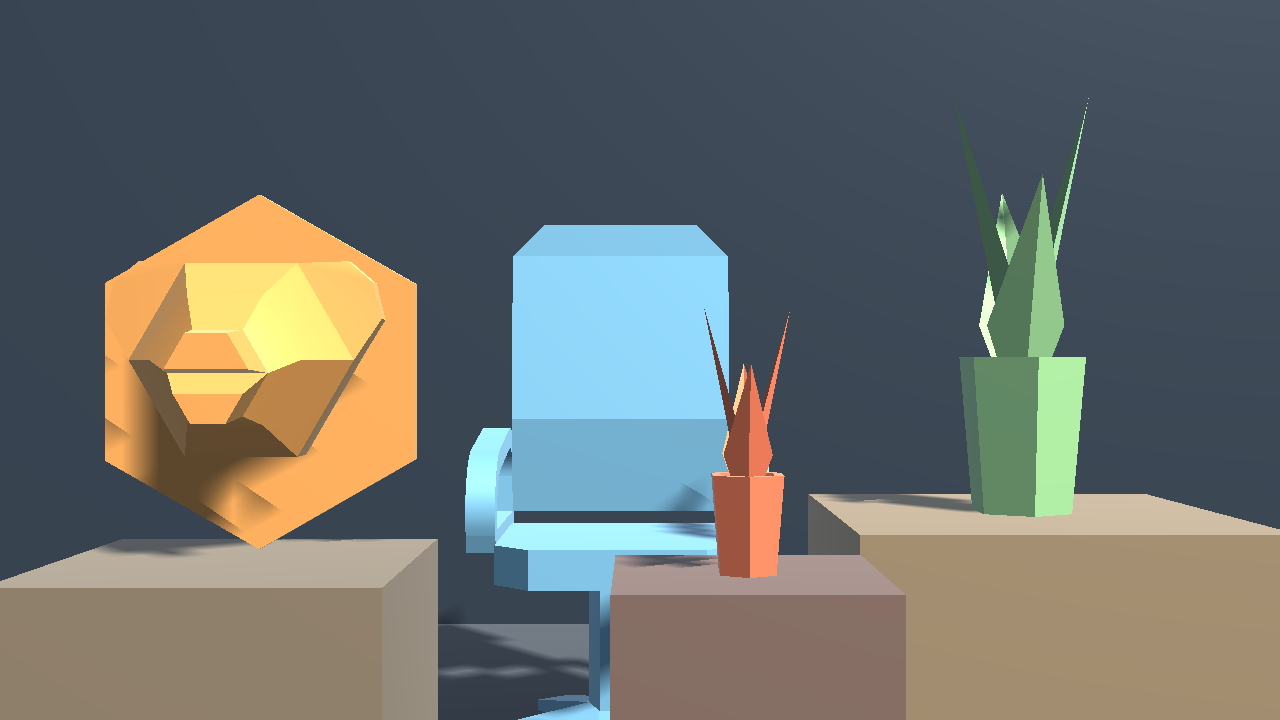
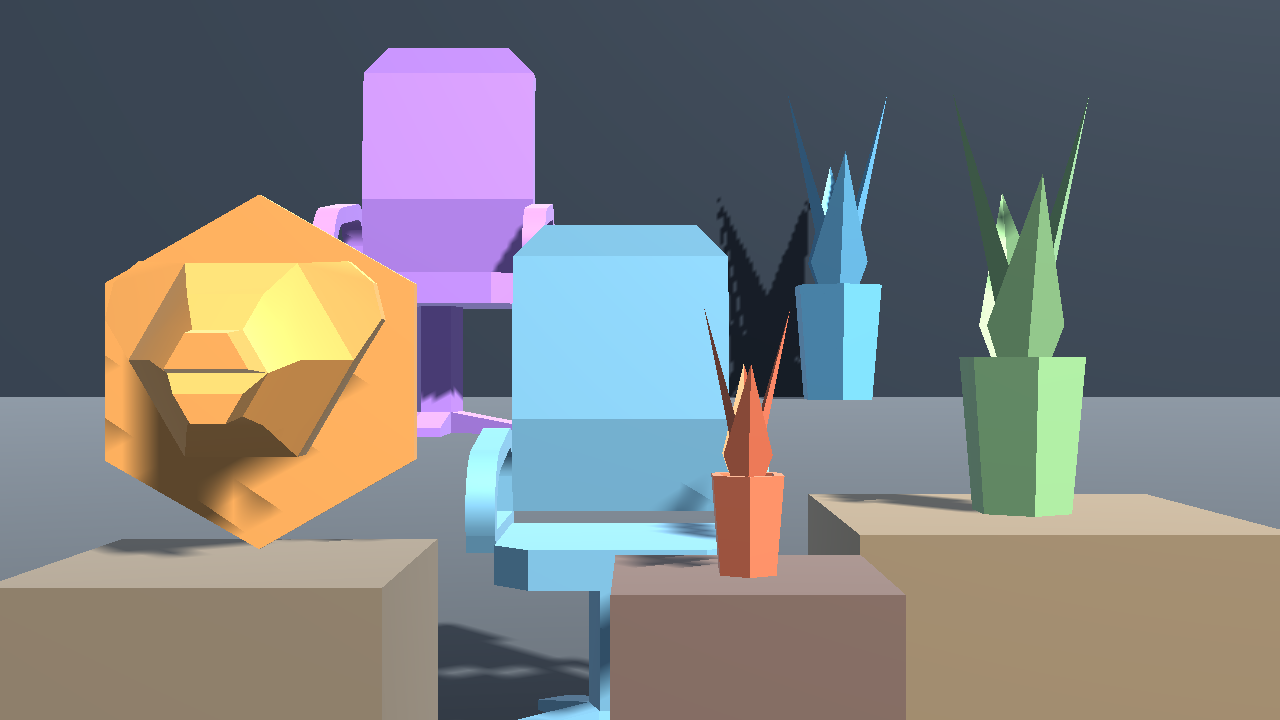
Add distant demo models at three and six meters

diff --git a/Demo/Assets/Scripts/DemoBootstrap.cs b/Demo/Assets/Scripts/DemoBootstrap.cs
@@ -84,6 +84,10 @@ namespace HeadTracked.Demo
                 rearPlinth, -.08f, new Color(0.55f, 0.76f, 0.53f));
             AddSceneModel("Red plant", "Models/pottedPlant", "Plant, in front of screen", .04f, .10f, -.06f,
                 protrudingPlinth, -.08f, new Color(0.90f, 0.46f, 0.33f));
+            AddSceneModel("Distant chair", "Models/chairDesk", "Chair, distant", -.50f, 1.0f, 3.0f,
+                null, -.18f, new Color(0.68f, 0.50f, 0.91f));
+            AddSceneModel("Distant plant", "Models/pottedPlant", "Plant, distant", .90f, 1.4f, 6.0f,
+                null, -.18f, new Color(0.40f, 0.72f, 0.90f));
             UpdateRoomGeometry();
 
             var sun = new GameObject("Soft key light").AddComponent<Light>();
@@ -169,9 +173,9 @@ namespace HeadTracked.Demo
 
         public void UseDepthPreset(bool deep)
         {
-            if (sceneModels.Count != 4) return;
+            if (sceneModels.Count < 4) return;
             float[] depths = deep ? new[] { -.04f, .29f, .42f, -.18f } : new[] { -.025f, .10f, .16f, -.06f };
-            for (int i = 0; i < sceneModels.Count; i++) sceneModels[i].depthCm = (depths[i] * 100f).ToString("F1");
+            for (int i = 0; i < depths.Length; i++) sceneModels[i].depthCm = (depths[i] * 100f).ToString("F1");
             ApplyModelLayout();
         }
 
@@ -182,9 +186,9 @@ namespace HeadTracked.Demo
             {
                 var model = sceneModels[i];
                 if (!float.TryParse(model.heightCm, out float height) || !float.TryParse(model.depthCm, out float depth) ||
-                    !IsFinite(height) || !IsFinite(depth) || height < 2f || height > 200f || depth < -20f || depth > 200f)
+                    !IsFinite(height) || !IsFinite(depth) || height < 2f || height > 200f || depth < -20f || depth > 1500f)
                 {
-                    notice = "Use model height 2-200 cm and centre depth -20 to +200 cm.";
+                    notice = "Use model height 2-200 cm and centre depth -20 to +1500 cm.";
                     return false;
                 }
                 values[i] = new ModelSizeAndDepth { height = height * .01f, depth = depth * .01f };
@@ -224,13 +228,18 @@ namespace HeadTracked.Demo
                 }
             }
             float front = nearest - .10f, back = farthest + .12f;
+            float roomWidth = Mathf.Max(1.55f, back * 2f);
+            float wallHeight = Mathf.Max(.9f, back * .7f);
             var wallPosition = backWall.position;
             wallPosition.z = back + .01f;
+            wallPosition.y = -.18f + wallHeight * .5f;
             backWall.position = wallPosition;
+            backWall.localScale = new Vector3(roomWidth, wallHeight, .02f);
             var floorPosition = roomFloor.position;
             floorPosition.z = (front + back) * .5f;
             roomFloor.position = floorPosition;
             var floorScale = roomFloor.localScale;
+            floorScale.x = roomWidth;
             floorScale.z = back - front;
             roomFloor.localScale = floorScale;
         }
@@ -242,8 +251,9 @@ namespace HeadTracked.Demo
             try
             {
                 var saved = JsonUtility.FromJson<ModelLayoutFile>(File.ReadAllText(path));
-                if (saved?.models == null || saved.models.Length != sceneModels.Count) return;
-                for (int i = 0; i < sceneModels.Count; i++)
+                if (saved?.models == null || saved.models.Length > sceneModels.Count) return;
+                // Keep an older four-model layout while adding the new distant models at their defaults.
+                for (int i = 0; i < saved.models.Length; i++)
                 {
                     sceneModels[i].heightCm = (saved.models[i].height * 100f).ToString("F1");
                     sceneModels[i].depthCm = (saved.models[i].depth * 100f).ToString("F1");
@@ -477,7 +487,7 @@ namespace HeadTracked.Demo
                         source.GetType().GetMethod("SelectWebcam")?.Invoke(source, new object[] { device.name });
             }
             GUILayout.Label(notice);
-            if (sceneModels.Count == 4)
+            if (sceneModels.Count >= 4)
                 GUILayout.Label($"The red plant centre is {Mathf.Abs(sceneModels[3].depth) * 100f:F1} cm {(sceneModels[3].depth < 0f ? "in front of" : "behind")} the screen.");
             GUILayout.Label("Models need no tracking scripts; the monitor edge still clips them.");
             GUILayout.EndScrollView();

diff --git a/Demo/Assets/Tests/PlayMode/SceneSmokeTests.cs b/Demo/Assets/Tests/PlayMode/SceneSmokeTests.cs
@@ -28,6 +28,10 @@ namespace HeadTracked.Demo.Tests
             Assert.That(Quaternion.Angle(model.rotation, rotation), Is.LessThan(.001f));
             demo.UseDepthPreset(false);
             Assert.That(renderer.bounds.center.z, Is.EqualTo(-.06f).Within(.001f));
+            Assert.That(ModelBounds(GameObject.Find("Chair, distant")).center.z,
+                Is.EqualTo(3f).Within(.001f));
+            Assert.That(ModelBounds(GameObject.Find("Plant, distant")).center.z,
+                Is.EqualTo(6f).Within(.001f));
         }
 
         [UnityTest]
@@ -62,6 +66,16 @@ namespace HeadTracked.Demo.Tests
             Assert.That(protrudingViewport.z, Is.GreaterThan(0f));
             Assert.That(protrudingViewport.x, Is.InRange(0f, 1f));
             Assert.That(protrudingViewport.y, Is.InRange(0f, 1f));
+            foreach (string name in new[] { "Chair, distant", "Plant, distant" })
+            {
+                var distant = GameObject.Find(name);
+                Assert.That(distant, Is.Not.Null);
+                Assert.That(distant.GetComponentInChildren<MeshFilter>(), Is.Not.Null);
+                Vector3 viewport = Camera.main.WorldToViewportPoint(ModelBounds(distant).center);
+                Assert.That(viewport.x, Is.InRange(0f, 1f));
+                Assert.That(viewport.y, Is.InRange(0f, 1f));
+                Assert.That(viewport.z, Is.InRange(Camera.main.nearClipPlane, Camera.main.farClipPlane));
+            }
 
             string screenshotPath = System.Environment.GetEnvironmentVariable("HEADTRACK_CAPTURE");
             if (!string.IsNullOrEmpty(screenshotPath))
@@ -81,6 +95,14 @@ namespace HeadTracked.Demo.Tests
                 Object.Destroy(image);
                 Object.Destroy(target);
             }
+        }
+
+        private static Bounds ModelBounds(GameObject model)
+        {
+            var renderers = model.GetComponentsInChildren<Renderer>();
+            var bounds = renderers[0].bounds;
+            foreach (var renderer in renderers) bounds.Encapsulate(renderer.bounds);
+            return bounds;
         }
     }
 }

diff --git a/README.md b/README.md
@@ -4,7 +4,7 @@
 
 Head Tracked Display makes an ordinary monitor behave like a window into a fixed 3D scene. A webcam estimates one viewer's eye position. Unity moves the render camera to that position and updates an **off-axis perspective projection** for the measured screen. Put any ordinary 3D model behind or in front of the screen plane; no script or head-driven rotation is added to the model.
 
-![The Unity URP demo at the neutral viewpoint: a bear and a red plant in front of the screen plane, with a chair and green plant behind it](docs/demo-neutral.png)
+![The Unity URP demo: near models and a distant purple chair and blue plant behind the screen](docs/demo-neutral.png)
 
 This is a **single-viewer, monoscopic** display. It provides motion parallax, not separate images for the left and right eyes.
 
@@ -13,7 +13,7 @@ This is a **single-viewer, monoscopic** display. It provides motion parallax, no
 | Path | Purpose |
 | --- | --- |
 | [`Packages/com.headtracked.display`](Packages/com.headtracked.display) | Reusable Unity Package Manager package: projection, calibration, eye pose, tracker interface, and optional tracking sources. |
-| [`Demo`](Demo) | Unity 6.3 LTS URP project with four real FBX model instances at different physical depths. |
+| [`Demo`](Demo) | Unity 6.3 LTS URP project with six real FBX model instances, including objects 3 m and 6 m behind the screen. |
 | [`python_tracker`](python_tracker) | MediaPipe Face Landmarker webcam tracker and OpenCV camera calibration tool. |
 | [`tools`](tools) | Optional Unity plugin setup and printable checkerboard. |
 
@@ -26,6 +26,8 @@ Double-click [`Run-HeadTrackedDemo.cmd`](Run-HeadTrackedDemo.cmd). It starts the
 The Windows player lives at `Builds/HeadTrackedDemo/HeadTrackedDemo.exe` in the prepared checkout. Build output, the Python environment, and the Face Landmarker model are deliberately excluded from Git; a new clone needs the setup below.
 
 In the demo, wait for **Tracking: FACE FOUND**. Move your head left/right, up/down, and toward/away from the monitor. The default shallow layout places the red plant 6 cm in front of the screen plane; it should shift in the opposite direction from the chair and green plant behind the screen. Open **Model size and depth** to adjust real model heights and centre depths, or select **Depth stress test** for the earlier 18 cm protrusion. If it stays at **NO FACE**, check the webcam number, lighting, and camera permission. Enter the physical display measurements and capture a reference distance before judging the geometry.
+
+A purple chair (1 m tall) stands **3 m behind the screen**, and a blue plant (1.4 m tall) stands **6 m behind it**. They stay distant when switching the near-model depth presets. Their height and depth are also editable; depth accepts up to 15 m. Older saved four-model layouts retain their near-model settings and add these two distant objects at their default positions.
 
 ### Build and run from source
 

diff --git a/docs/physical-scale.md b/docs/physical-scale.md
@@ -44,7 +44,7 @@ Measure interpupillary distance (IPD) where possible. The default `63 mm` is an 
 5. Temporarily enable **Freeze viewing distance** while moving only laterally. If unintended zoom or floating is reduced, investigate the distance estimate. This diagnostic disables forward/back tracking; turn it off for normal use.
 6. Compare smoothing values while moving and stopping. The displayed value is the filter's time constant, not measured camera-to-display latency. Low smoothing can expose jitter, while high smoothing can make a fixed scene appear to lag.
 
-The default shallow preset uses centre depths `-2.5, +10, +16, -6 cm` for the bear, chair, green plant, and red plant. The stress preset uses `-4, +29, +42, -18 cm`. Their dimensions are preserved, and supports and room depth follow the placement. This changes actual virtual positions, without changing the projection rule or multiplying head movement by an arbitrary visual gain.
+The default shallow preset uses centre depths `-2.5, +10, +16, -6 cm` for the bear, chair, green plant, and red plant. The stress preset uses `-4, +29, +42, -18 cm`. A separate purple chair is 1 m tall at depth `+3 m`, and a blue plant is 1.4 m tall at depth `+6 m`. The presets affect the first four near models; distant models retain their settings. Their dimensions are preserved, and supports and room dimensions follow the placement. Model depth accepts up to `+15 m`. This changes actual virtual positions, without changing the projection rule or multiplying head movement by an arbitrary visual gain.
 
 The model layout is saved separately as `demo_model_layout.json` in Unity's persistent data directory. The default and saved layouts may be clipped at the screen edge; foreground models must also remain beyond the camera near plane.
 
